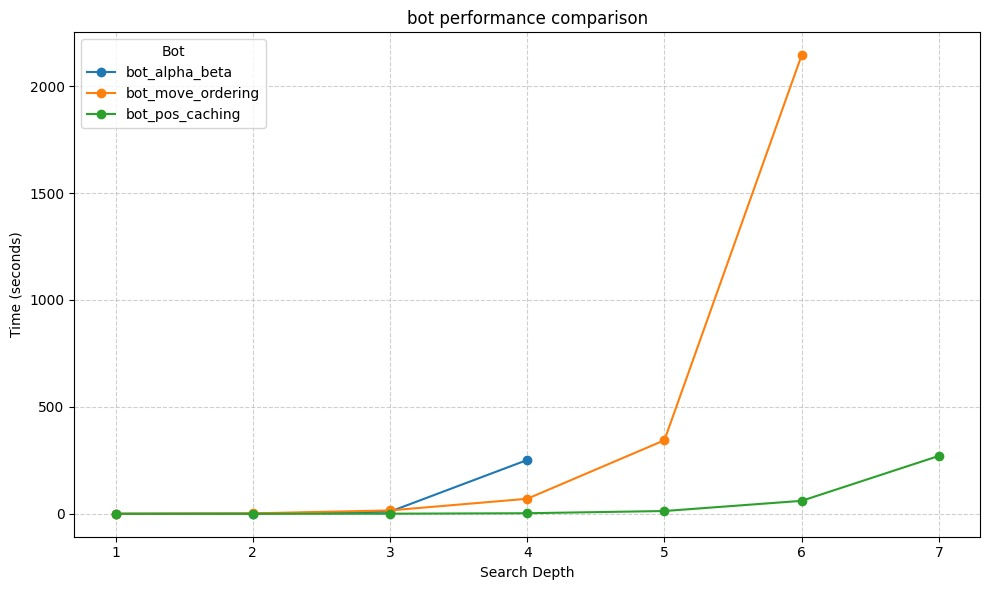
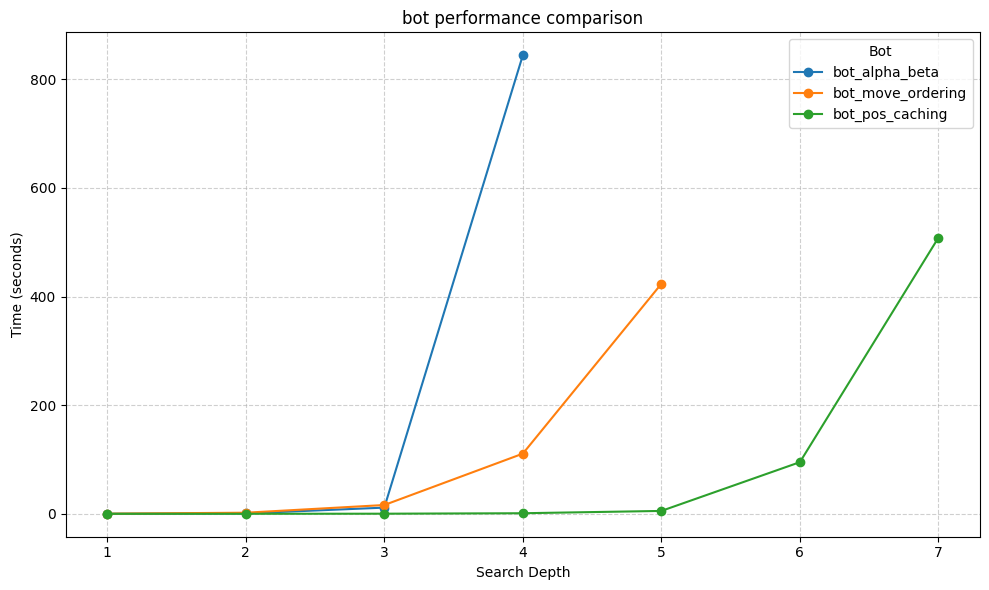
analysis

diff --git a/code/analysis/bot_testing.py b/code/analysis/bot_testing.py
@@ -20,7 +20,7 @@ if __name__ == "__main__":
 
         for _name, (_func, _max_depth) in {
             "bot_alpha_beta": (bot_alpha_beta, 4),
-            "bot_move_ordering": (bot_move_ordering, 6),
+            "bot_move_ordering": (bot_move_ordering, 5),
             "bot_pos_caching": (bot_pos_caching, 7),
         }.items():
 
